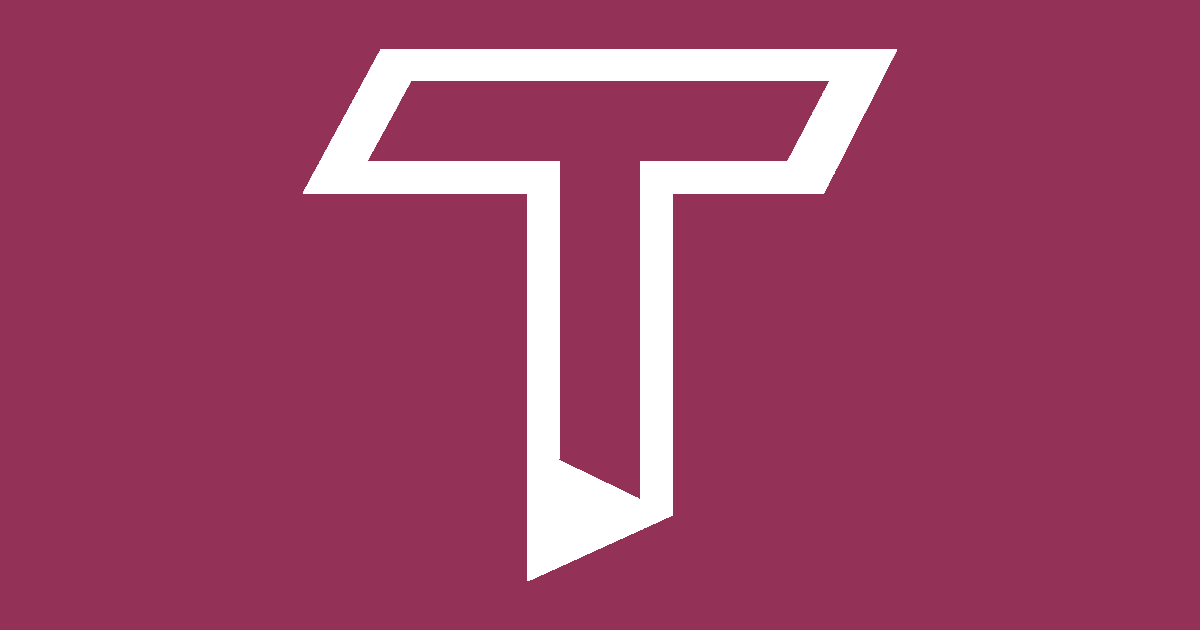
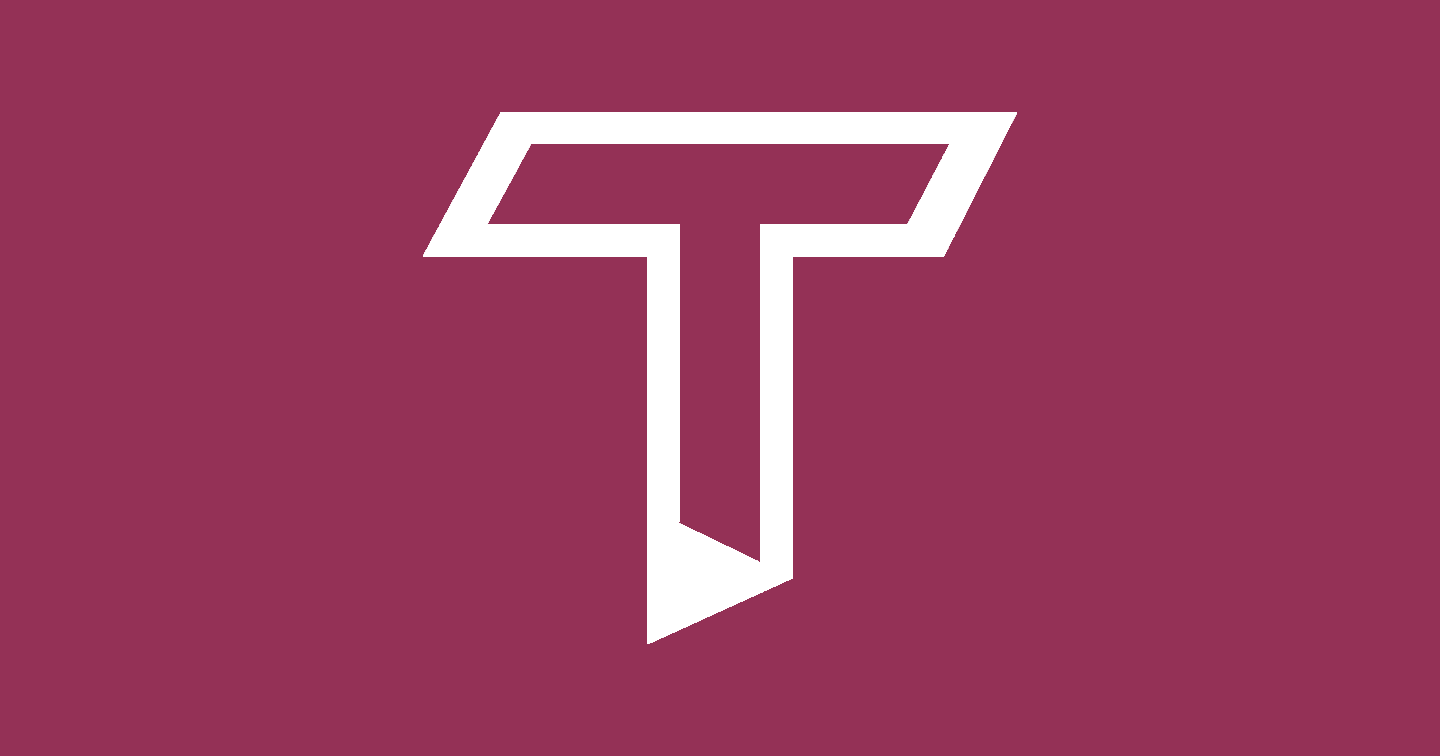
new og image

Changed region(s): [[0.2467, 0.0603, 0.74, 0.9349]]

diff --git a/index.html b/index.html
@@ -1,8 +1,6 @@
 <html>
 
 <head>
-    <link rel="preconnect" href="https://fonts.googleapis.com" />
-
     <!-- Meta -->
     <title>Tristan Stevens</title>
     <meta charset="utf-8">
